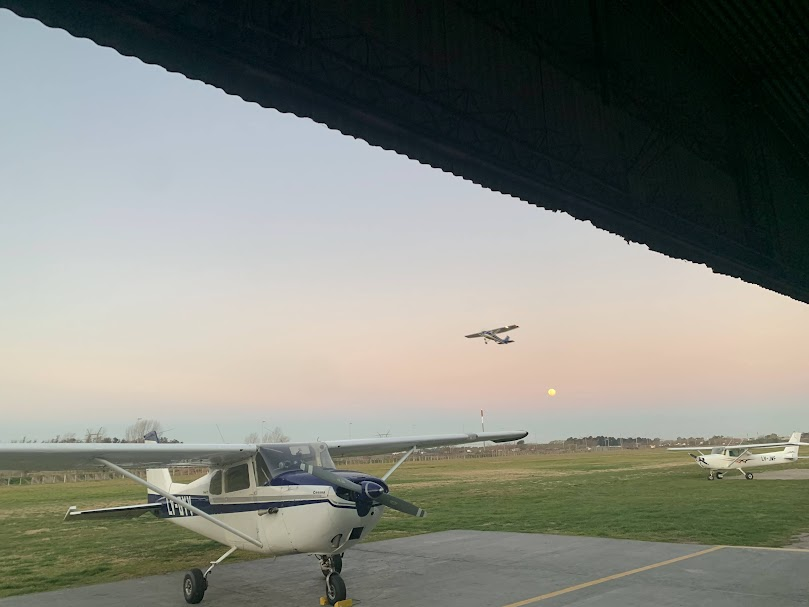
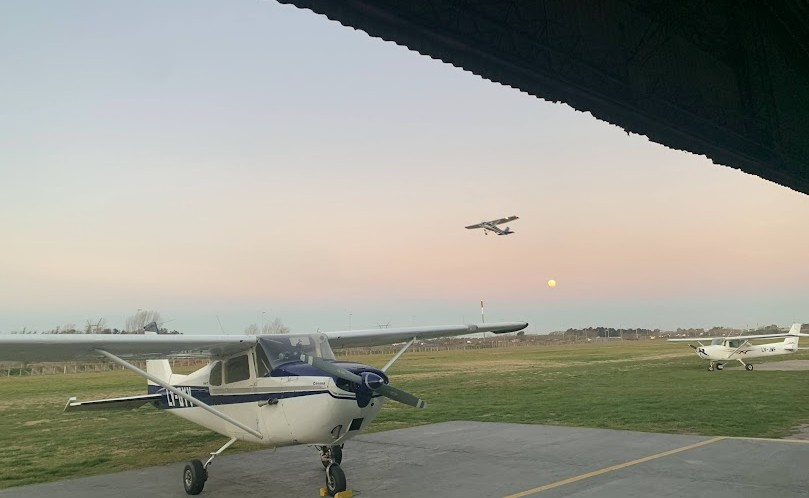
cambios

diff --git a/components/colophon-section.tsx b/components/colophon-section.tsx
@@ -58,13 +58,8 @@ export function ColophonSection() {
     >
       <div className="rule-accent w-full h-px opacity-60" />
 
-      <div className="grid grid-cols-1 lg:grid-cols-2">
-
-        {/* ── LEFT — headline + contact rows ── */}
-        <div
-          ref={leftRef}
-          className="relative flex flex-col justify-between px-8 md:px-14 py-16 md:py-20"
-        >
+      <div className="px-8 md:px-14 2xl:px-20 3xl:px-28 py-16 md:py-20 2xl:py-24">
+        <div className="relative mb-12 lg:mb-14">
           <div
             className="absolute inset-0 pointer-events-none"
             style={{
@@ -72,27 +67,31 @@ export function ColophonSection() {
                 "radial-gradient(ellipse 70% 60% at 10% 50%, oklch(0.52 0.19 252 / 0.07) 0%, transparent 70%)",
             }}
           />
-
-          <div className="relative z-10">
-            <div className="flex items-center gap-3 mb-10">
+          <div className="relative z-10 max-w-4xl 2xl:max-w-5xl">
+            <div className="flex items-center gap-3 mb-8">
               <div className="rule-accent w-6 opacity-70" />
               <span className="font-mono text-[10px] uppercase tracking-[0.35em] text-accent">
                 03 / Contacto
               </span>
             </div>
-
-            <h2 className="font-display font-semibold text-5xl md:text-6xl xl:text-7xl uppercase leading-[0.95] tracking-tight mb-8">
+            <h2 className="font-display font-semibold text-5xl md:text-6xl xl:text-7xl 2xl:text-8xl uppercase leading-[0.95] tracking-tight mb-6">
               Hablemos<br />
               <span className="text-accent">de su</span><br />
               aeronave.
             </h2>
-
-            <p className="text-base text-muted-foreground leading-relaxed max-w-sm font-light">
+            <p className="text-base 2xl:text-lg text-muted-foreground leading-relaxed max-w-2xl 2xl:max-w-3xl font-light">
               Nuestro equipo tecnico esta listo para asesorarlo. Consultas, presupuestos o visitas a nuestro taller certificado ANAC en Ensenada, La Plata.
             </p>
           </div>
+        </div>
 
-          <div className="relative z-10 mt-12 divide-y divide-border/40">
+        <div className="grid grid-cols-1 lg:grid-cols-2 gap-0 border border-border/40 2xl:max-w-[1500px] 2xl:mx-auto">
+          {/* ── LEFT — contact rows ── */}
+          <div
+            ref={leftRef}
+            className="relative px-6 md:px-8 py-4 md:py-6 border-b lg:border-b-0 lg:border-r border-border/40"
+          >
+            <div className="relative z-10 divide-y divide-border/40">
             <ContactRow
               icon={<Phone className="w-4 h-4" />}
               label="Telefono"
@@ -120,18 +119,15 @@ export function ColophonSection() {
               value="Lunes a Viernes, 09 – 18 hs"
               sub="Sabados con cita previa"
             />
+            </div>
           </div>
-        </div>
 
-        {/* ── RIGHT — cert + coords + map ── */}
-        <div
-          ref={rightRef}
-          className="relative flex flex-col border-t lg:border-t-0 lg:border-l border-border/40"
-        >
+          {/* ── RIGHT — cert + coords + map ── */}
+          <div ref={rightRef} className="relative flex flex-col">
           {/* Top info strip */}
-          <div className="grid grid-cols-2 divide-x divide-border/40 border-b border-border/40 flex-shrink-0">
+          <div className="grid grid-cols-1 sm:grid-cols-2 divide-y sm:divide-y-0 sm:divide-x divide-border/40 border-b border-border/40 flex-shrink-0">
             {/* ANAC cert */}
-            <div className="px-8 py-8 flex flex-col gap-1">
+            <div className="px-6 md:px-8 py-7 md:py-8 flex flex-col items-center text-center gap-1.5">
               <p className="font-mono text-[9px] uppercase tracking-[0.3em] text-muted-foreground">
                 Habilitacion ANAC
               </p>
@@ -144,7 +140,7 @@ export function ColophonSection() {
             </div>
 
             {/* Coordinates block */}
-            <div className="px-8 py-8 flex flex-col gap-3">
+            <div className="px-6 md:px-8 py-7 md:py-8 flex flex-col items-center text-center gap-2.5">
               <p className="font-mono text-[9px] uppercase tracking-[0.3em] text-muted-foreground">
                 Coordenadas GPS
               </p>
@@ -163,10 +159,10 @@ export function ColophonSection() {
           </div>
 
           {/* CTA row */}
-          <div className="grid grid-cols-2 divide-x divide-border/40 border-b border-border/40 flex-shrink-0">
+          <div className="grid grid-cols-1 sm:grid-cols-2 divide-y sm:divide-y-0 sm:divide-x divide-border/40 border-b border-border/40 flex-shrink-0">
             <a
               href="tel:+5491154982223"
-              className="group flex items-center justify-center gap-2 px-6 py-5 font-display font-semibold text-sm uppercase tracking-[0.15em] text-foreground/70 hover:text-accent hover:bg-accent/5 transition-all duration-300"
+              className="group flex items-center justify-center gap-2 px-6 py-4 md:py-5 font-display font-semibold text-sm uppercase tracking-[0.15em] text-foreground/70 hover:text-accent hover:bg-accent/5 transition-all duration-300"
             >
               <Phone className="w-4 h-4" />
               <span>Llamar</span>
@@ -174,7 +170,7 @@ export function ColophonSection() {
             </a>
             <a
               href="mailto:info@sigmaavionics.com.ar"
-              className="group flex items-center justify-center gap-2 px-6 py-5 font-display font-semibold text-sm uppercase tracking-[0.15em] bg-accent text-accent-foreground hover:bg-accent/90 transition-all duration-300"
+              className="group flex items-center justify-center gap-2 px-6 py-4 md:py-5 font-display font-semibold text-sm uppercase tracking-[0.15em] bg-accent text-accent-foreground hover:bg-accent/90 transition-all duration-300"
             >
               <Mail className="w-4 h-4" />
               <span>Email</span>
@@ -183,28 +179,31 @@ export function ColophonSection() {
           </div>
 
           {/* Relief map — fills remaining space, isolated from GSAP */}
-          <div className="relative flex-1" style={{ minHeight: "320px" }}>
-            <SigmaMap />
+          <div className="px-6 md:px-8 py-6 md:py-8">
+            <div className="relative mx-auto w-full max-w-xl overflow-hidden rounded-sm border border-border/40" style={{ height: "220px" }}>
+              <SigmaMap />
 
             {/* Overlay label */}
-            <div className="absolute top-4 left-4 z-[400] glass-card px-3 py-2 pointer-events-none">
-              <p className="font-mono text-[9px] uppercase tracking-[0.25em] text-foreground/70">
-                Aeroclub La Plata Ensenada
-              </p>
-            </div>
+              <div className="absolute top-3 left-3 z-[400] glass-card px-2.5 py-1.5 pointer-events-none">
+                <p className="font-mono text-[9px] uppercase tracking-[0.2em] text-foreground/70">
+                  Aeroclub La Plata Ensenada
+                </p>
+              </div>
 
             {/* Open in maps button */}
-            <a
-              href="https://maps.google.com/?q=-34.876984,-57.958714"
-              target="_blank"
-              rel="noopener noreferrer"
-              className="absolute bottom-4 right-4 z-[400] group flex items-center gap-2 glass-card px-4 py-2 font-mono text-[10px] uppercase tracking-widest text-foreground/80 hover:text-accent transition-all duration-200"
-            >
-              Abrir en Maps
-              <ArrowUpRight className="w-3 h-3 transition-transform duration-200 group-hover:translate-x-0.5 group-hover:-translate-y-0.5" />
-            </a>
+              <a
+                href="https://maps.google.com/?q=-34.876984,-57.958714"
+                target="_blank"
+                rel="noopener noreferrer"
+                className="absolute bottom-3 right-3 z-[400] group flex items-center gap-1.5 glass-card px-3 py-1.5 font-mono text-[10px] uppercase tracking-[0.18em] text-foreground/80 hover:text-accent transition-all duration-200"
+              >
+                Abrir en Maps
+                <ArrowUpRight className="w-3 h-3 transition-transform duration-200 group-hover:translate-x-0.5 group-hover:-translate-y-0.5" />
+              </a>
+            </div>
           </div>
         </div>
+      </div>
       </div>
     </section>
   )

diff --git a/components/hero-section.tsx b/components/hero-section.tsx
@@ -91,7 +91,7 @@ export function HeroSection() {
     <section
       ref={sectionRef}
       id="hero"
-      className="relative min-h-screen flex flex-col justify-center overflow-hidden"
+      className="relative min-h-screen lg:min-h-[100svh] lg:max-h-[100svh] flex flex-col justify-center overflow-hidden pt-20 md:pt-24 lg:pt-14 notebook-screen:pt-12 short-screen:pt-10"
     >
       {/* Background — subtle radial glow + noise texture, no photo */}
       <div className="absolute inset-0 z-0 pointer-events-none">
@@ -115,25 +115,25 @@ export function HeroSection() {
       <div className="grid-bg absolute inset-0 z-[1] opacity-30 pointer-events-none" />
 
       {/* Horizontal accent lines flanking logo */}
-      <div className="absolute left-0 right-0 top-1/2 -translate-y-1/2 z-[2] pointer-events-none flex items-center px-6 md:px-16 lg:px-28 gap-6">
+      <div className="absolute left-0 right-0 top-1/2 -translate-y-1/2 z-[2] pointer-events-none flex items-center px-6 md:px-16 lg:px-28 2xl:px-36 3xl:px-44 gap-6 2xl:gap-8">
         <div ref={lineLeftRef} className="flex-1 rule-accent opacity-30" />
         <div className="w-4 h-4 border border-accent/40 rotate-45 flex-shrink-0" />
         <div ref={lineRightRef} className="flex-1" style={{ height: "1px", background: "linear-gradient(to left, oklch(0.52 0.19 252 / 0.8), transparent)" }} />
       </div>
 
       {/* Main content — centered, wrapped so scroll-fade works on the whole block */}
-      <div className="hero-content relative z-10 flex flex-col items-center justify-center min-h-screen px-6 md:px-16 text-center">
+      <div className="hero-content relative z-10 flex flex-col items-center justify-center min-h-[calc(100vh-5rem)] md:min-h-[calc(100vh-6rem)] lg:min-h-[calc(100svh-3.5rem)] lg:max-h-[calc(100svh-3.5rem)] notebook-screen:min-h-[calc(100svh-3rem)] notebook-screen:max-h-[calc(100svh-3rem)] px-6 md:px-16 2xl:px-24 text-center">
 
         {/* ANAC badge */}
-        <div className="mb-10 inline-flex items-center gap-3 glass-card px-4 py-2">
+        <div className="mb-6 md:mb-8 lg:mb-7 notebook-screen:mb-5 short-screen:mb-4 2xl:mb-12 inline-flex items-center gap-3 glass-card px-3.5 py-1.5 md:px-4 md:py-2 notebook-screen:px-3 notebook-screen:py-1.5 2xl:px-5 2xl:py-2.5">
           <span className="w-1.5 h-1.5 rounded-full bg-accent animate-pulse" />
-          <span className="font-mono text-[10px] uppercase tracking-[0.35em] text-accent">
+          <span className="font-mono text-[9px] md:text-[10px] notebook-screen:text-[8px] uppercase tracking-[0.32em] md:tracking-[0.35em] notebook-screen:tracking-[0.26em] text-accent">
             Taller Habilitado ANAC — 1B-724
           </span>
         </div>
 
         {/* Logo — hero scale, NO individual parallax */}
-        <div ref={logoRef} className="mb-8 w-full max-w-[280px] sm:max-w-[420px] md:max-w-[560px] lg:max-w-[680px]">
+        <div ref={logoRef} className="mb-6 md:mb-8 lg:mb-7 notebook-screen:mb-5 short-screen:mb-4 2xl:mb-10 w-full max-w-[260px] sm:max-w-[400px] md:max-w-[520px] lg:max-w-[560px] notebook:max-w-[500px] desktop:max-w-[640px] 2xl:max-w-[760px] 3xl:max-w-[880px]">
           <NextImage
             src="/images/logo-sigma-white.png"
             alt="Sigma Avionics"
@@ -145,8 +145,8 @@ export function HeroSection() {
         </div>
 
         {/* Tagline */}
-        <div ref={taglineRef} className="mb-12">
-          <p className="font-display font-light text-lg md:text-2xl lg:text-3xl tracking-[0.25em] text-foreground/60 uppercase">
+        <div ref={taglineRef} className="mb-8 md:mb-10 lg:mb-8 notebook-screen:mb-6 short-screen:mb-5 2xl:mb-14">
+          <p className="font-display font-light text-base md:text-xl lg:text-2xl notebook-screen:text-xl short-screen:text-lg desktop:text-3xl 2xl:text-4xl tracking-[0.2em] md:tracking-[0.25em] notebook-screen:tracking-[0.18em] text-foreground/60 uppercase">
             Ingenieria de Precision para su Cabina
           </p>
           <div className="mt-4 rule-accent mx-auto w-24 opacity-50" />
@@ -155,18 +155,18 @@ export function HeroSection() {
         {/* Highlights — 3 pillars replacing the raw stats */}
         <div
           ref={statsRef}
-          className="mb-12 grid grid-cols-3 gap-px bg-border/20 overflow-hidden w-full max-w-lg glass-card"
+          className="mb-8 md:mb-10 lg:mb-8 notebook-screen:mb-6 short-screen:mb-5 2xl:mb-14 grid grid-cols-3 gap-px bg-border/20 overflow-hidden w-full max-w-md md:max-w-lg lg:max-w-[520px] notebook:max-w-[480px] desktop:max-w-[560px] 2xl:max-w-xl glass-card"
         >
-          <div className="stat-item flex flex-col items-center gap-1 py-5 px-3">
-            <span className="font-display font-semibold text-2xl md:text-3xl text-accent tracking-wide">Taller</span>
+          <div className="stat-item flex flex-col items-center gap-1 py-4 md:py-5 notebook-screen:py-3 short-screen:py-2.5 px-2.5 md:px-3">
+            <span className="font-display font-semibold text-xl md:text-2xl lg:text-[1.65rem] notebook-screen:text-[1.35rem] short-screen:text-[1.25rem] text-accent tracking-wide">Taller</span>
             <span className="font-mono text-[9px] uppercase tracking-[0.2em] text-muted-foreground">y en pista</span>
           </div>
-          <div className="stat-item flex flex-col items-center gap-1 py-5 px-3 border-x border-border/20">
-            <span className="font-display font-semibold text-2xl md:text-3xl text-accent tracking-wide">RAAC</span>
+          <div className="stat-item flex flex-col items-center gap-1 py-4 md:py-5 notebook-screen:py-3 short-screen:py-2.5 px-2.5 md:px-3 border-x border-border/20">
+            <span className="font-display font-semibold text-xl md:text-2xl lg:text-[1.65rem] notebook-screen:text-[1.35rem] short-screen:text-[1.25rem] text-accent tracking-wide">RAAC</span>
             <span className="font-mono text-[9px] uppercase tracking-[0.2em] text-muted-foreground">Cumplimiento</span>
           </div>
-          <div className="stat-item flex flex-col items-center gap-1 py-5 px-3">
-            <span className="font-display font-semibold text-2xl md:text-3xl text-accent tracking-wide">Socios</span>
+          <div className="stat-item flex flex-col items-center gap-1 py-4 md:py-5 notebook-screen:py-3 short-screen:py-2.5 px-2.5 md:px-3">
+            <span className="font-display font-semibold text-xl md:text-2xl lg:text-[1.65rem] notebook-screen:text-[1.35rem] short-screen:text-[1.25rem] text-accent tracking-wide">Socios</span>
             <span className="font-mono text-[9px] uppercase tracking-[0.2em] text-muted-foreground">Tecnicos</span>
           </div>
         </div>

diff --git a/components/principles-section.tsx b/components/principles-section.tsx
@@ -109,33 +109,34 @@ export function PrinciplesSection() {
   }, [])
 
   return (
-    <section ref={sectionRef} id="principles" className="relative py-24 md:py-32 px-6 md:px-12 lg:px-28 overflow-x-hidden bg-background">
+    <section ref={sectionRef} id="principles" className="relative py-24 md:py-32 2xl:py-36 px-6 md:px-12 lg:px-28 2xl:px-36 3xl:px-44 overflow-x-hidden bg-background">
       {/* Background photo strip */}
-      <div className="absolute inset-y-0 right-0 w-1/2 md:w-2/5 z-0 pointer-events-none hidden lg:block">
+      <div className="absolute inset-0 lg:inset-y-0 lg:right-0 lg:left-auto w-full lg:w-1/2 xl:w-2/5 z-0 pointer-events-none">
         <div className="relative h-full">
-          <div className="absolute inset-0 opacity-10" style={{
+          <div className="absolute inset-0 opacity-16 sm:opacity-18 lg:opacity-20" style={{
             backgroundImage: "url('/images/aircraft-tarmac.jpg')",
             backgroundSize: "cover",
-            backgroundPosition: "center",
+            backgroundPosition: "center right",
+            filter: "brightness(1.2) contrast(1.08) saturate(1.05)",
           }} />
-          <div className="absolute inset-0 bg-gradient-to-r from-background via-background/60 to-transparent" />
+          <div className="absolute inset-0 bg-gradient-to-b lg:bg-gradient-to-r from-background/96 via-background/70 lg:via-background/35 to-background/92 lg:to-transparent" />
         </div>
       </div>
 
       {/* Section header */}
-      <div ref={headerRef} className="relative z-10 mb-16 md:mb-20">
+      <div ref={headerRef} className="relative z-10 mb-16 md:mb-20 2xl:mb-24">
         <div className="flex items-center gap-4 mb-6">
           <div className="rule-accent w-8 opacity-80" />
           <span className="font-mono text-[10px] uppercase tracking-[0.35em] text-accent">02 / Nosotros</span>
         </div>
-        <h2 className="font-display font-semibold text-5xl md:text-6xl lg:text-8xl tracking-tight uppercase leading-none">
+        <h2 className="font-display font-semibold text-5xl md:text-6xl lg:text-8xl 2xl:text-9xl tracking-tight uppercase leading-none">
           Sobre<br />
           <span className="text-foreground/30">Sigma</span>
         </h2>
       </div>
 
       {/* Introduction paragraph */}
-      <div ref={introRef} className="relative z-10 mb-16 md:mb-24 max-w-2xl">
+      <div ref={introRef} className="relative z-10 mb-16 md:mb-24 2xl:mb-28 max-w-2xl 2xl:max-w-3xl">
         <p className="text-base md:text-lg text-foreground/80 leading-relaxed font-light">
           En la aviacion no hay margen para el error.{" "}
           <span className="text-accent font-medium">Sigma Avionics</span> nace con una premisa clara: ofrecer un servicio tecnico que combine la precision de un laboratorio de ingenieria con la agilidad que exige la operacion diaria.
@@ -149,7 +150,7 @@ export function PrinciplesSection() {
       </div>
 
       {/* Staggered principles */}
-      <div ref={principlesRef} className="relative z-10 space-y-12 md:space-y-16 max-w-3xl overflow-hidden md:overflow-visible">
+      <div ref={principlesRef} className="relative z-10 space-y-12 md:space-y-16 2xl:space-y-20 max-w-3xl 2xl:max-w-4xl overflow-hidden md:overflow-visible">
         {principles.map((principle, index) => (
           <article
             key={index}

diff --git a/app/globals.css b/app/globals.css
@@ -2,6 +2,8 @@
 @import "tw-animate-css";
 
 @custom-variant dark (&:is(.dark *));
+@custom-variant short-screen (@media (max-height: 50rem));
+@custom-variant notebook-screen (@media (min-width: 64rem) and (max-width: 90rem));
 
 /* Sigma Avionics — Premium dark aerospace theme */
 :root {
@@ -36,6 +38,10 @@
 }
 
 @theme inline {
+  --breakpoint-notebook: 72rem;
+  --breakpoint-desktop: 100rem;
+  --breakpoint-3xl: 120rem;
+  --breakpoint-4xl: 140rem;
   --font-sans: var(--font-sans), "Barlow", sans-serif;
   --font-mono: var(--font-mono), "IBM Plex Mono", monospace;
   --font-display: var(--font-display), "Barlow Condensed", sans-serif;

diff --git a/components/footer.tsx b/components/footer.tsx
@@ -65,9 +65,9 @@ export function Footer() {
             <Image
               src="/images/logo-sigma-white.png"
               alt="Sigma Avionics"
-              width={160}
-              height={46}
-              className="h-8 w-auto opacity-90"
+              width={384}
+              height={150}
+              className="w-[150px] md:w-[165px] h-auto opacity-90"
             />
             <p className="font-light text-sm text-muted-foreground leading-relaxed max-w-[200px]">
               Ingenieria de precision para su cabina. Confianza instalada.
